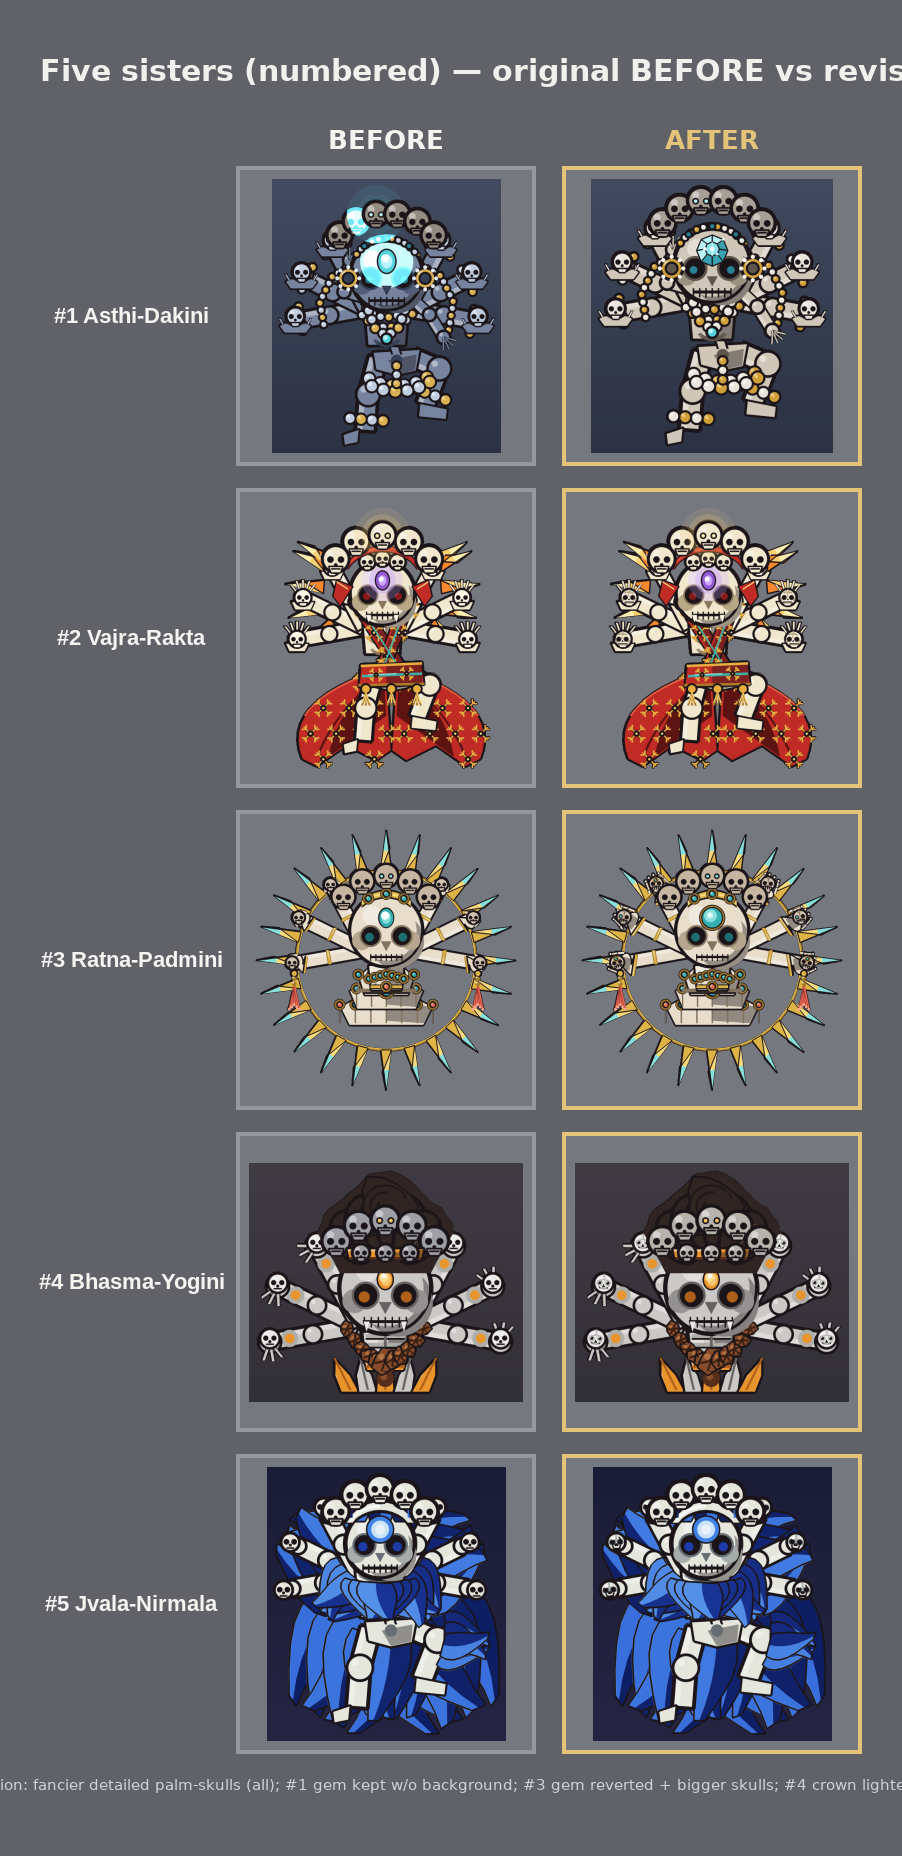
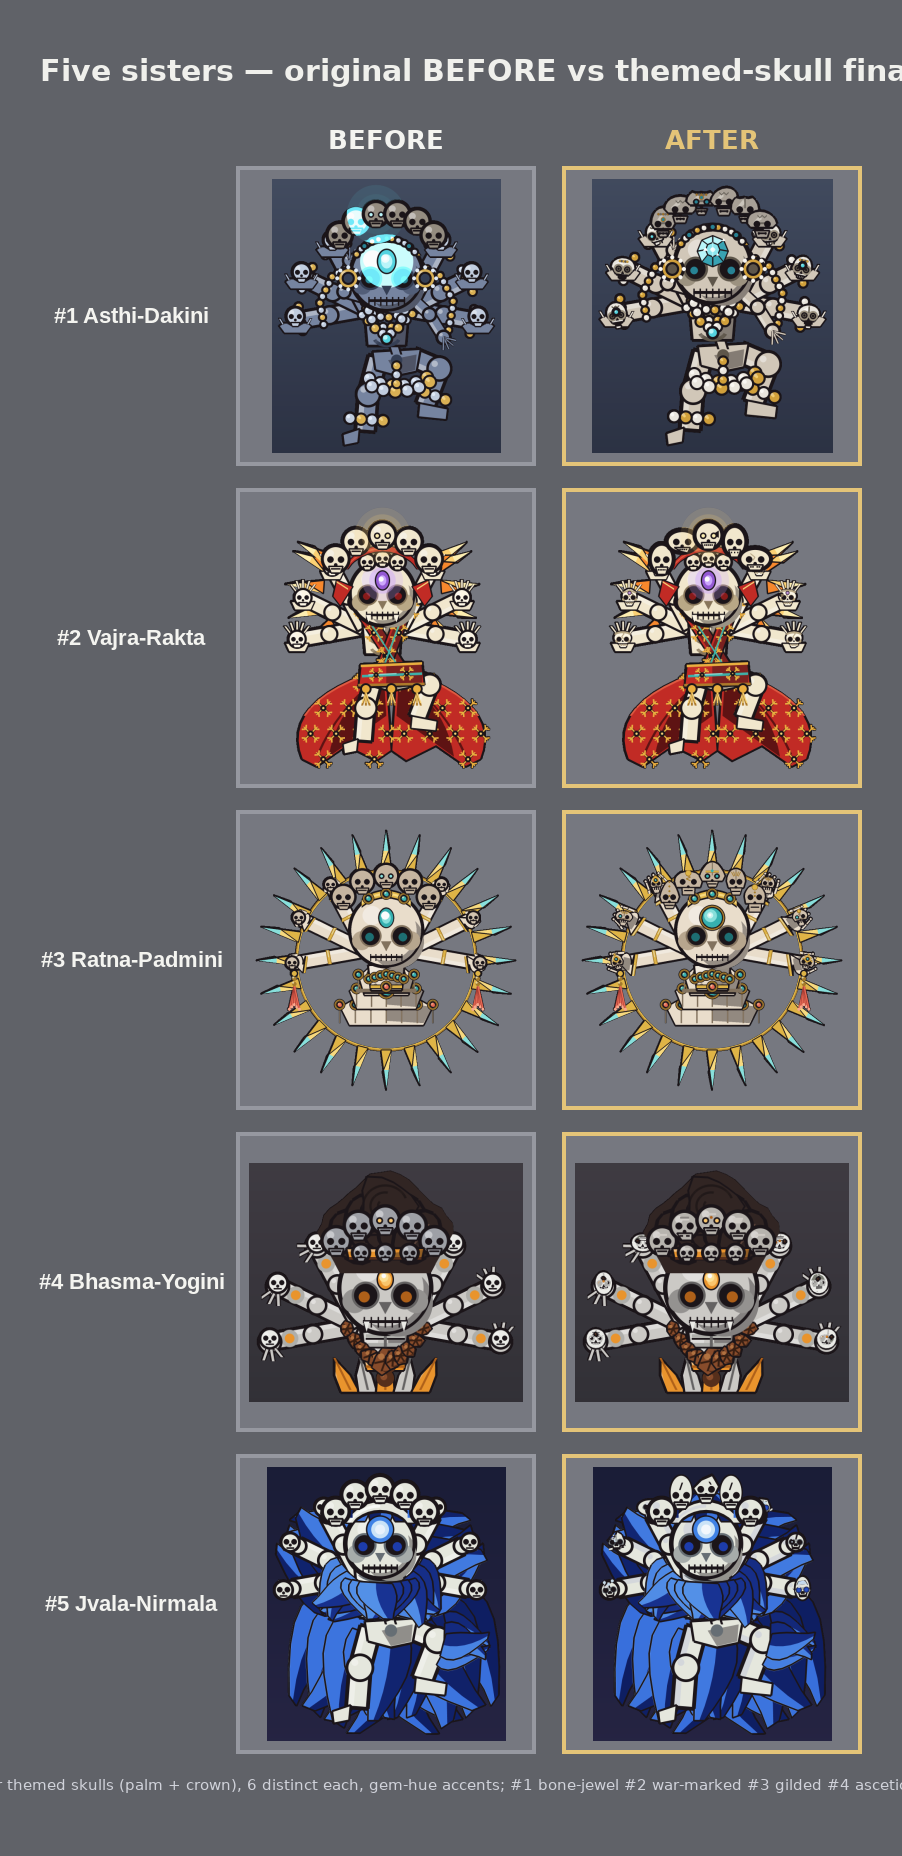
skybit: refresh before/after aggregate to themed-skull finals (asthi10/vajra7/ratna7/bhasma7/jvala8), 0 clip violations
Claude-Session: https://claude.ai/code/session_01JdHJ2TbdY51oSPSCYSsaHZ

diff --git a/docs/skybit_devil/batch2/gem_skull_redesign/build_before_after.py b/docs/skybit_devil/batch2/gem_skull_redesign/build_before_after.py
@@ -51,7 +51,7 @@ ROWS = [
             "mode": "gradient",
         },
         "after": {
-            "file": "docs/skybit_devil/batch2/mukha_citipati_court/asthi_dakini/round_8_hero.png",
+            "file": "docs/skybit_devil/batch2/mukha_citipati_court/asthi_dakini/round_10_hero.png",
             "mode": "gradient",
         },
     },
@@ -62,7 +62,7 @@ ROWS = [
             "mode": "alpha",
         },
         "after": {
-            "file": "docs/skybit_devil/batch2/mukha_citipati_court/vajra_rakta/round_5_hero.png",
+            "file": "docs/skybit_devil/batch2/mukha_citipati_court/vajra_rakta/round_7_hero.png",
             "mode": "alpha",
         },
     },
@@ -73,7 +73,7 @@ ROWS = [
             "mode": "alpha",
         },
         "after": {
-            "file": "docs/skybit_devil/batch2/mukha_citipati_court/ratna_padmini/round_4_hero.png",
+            "file": "docs/skybit_devil/batch2/mukha_citipati_court/ratna_padmini/round_7_hero.png",
             "mode": "alpha",
         },
     },
@@ -85,7 +85,7 @@ ROWS = [
             "skip_top": 120,  # excludes the printed name strip above the figure
         },
         "after": {
-            "file": "docs/skybit_devil/batch2/mukha_citipati_court_ii/bhasma_yogini/round_5_hero.png",
+            "file": "docs/skybit_devil/batch2/mukha_citipati_court_ii/bhasma_yogini/round_7_hero.png",
             "mode": "gradient",
             "skip_top": 120,
         },
@@ -98,7 +98,7 @@ ROWS = [
             "skip_top": 120,
         },
         "after": {
-            "file": "docs/skybit_devil/batch2/mukha_citipati_court_ii/jvala_nirmala/round_5_hero.png",
+            "file": "docs/skybit_devil/batch2/mukha_citipati_court_ii/jvala_nirmala/round_8_hero.png",
             "mode": "gradient",
             "skip_top": 120,
         },
@@ -216,7 +216,7 @@ def main():
     f_cap = pygame.font.SysFont("dejavusans", 15)
 
     title = f_title.render(
-        "Five sisters (numbered) — original BEFORE vs revised AFTER",
+        "Five sisters — original BEFORE vs themed-skull final AFTER",
         True,
         TITLE_COL,
     )
@@ -293,8 +293,8 @@ def main():
 
     # Bottom caption strip.
     cap = f_cap.render(
-        "revision: fancier detailed palm-skulls (all); #1 gem kept w/o background; "
-        "#3 gem reverted + bigger skulls; #4 crown lightened.",
+        "final: per-character themed skulls (palm + crown), 6 distinct each, gem-hue accents; "
+        "#1 bone-jewel #2 war-marked #3 gilded #4 ascetic #5 frost-cracked.",
         True,
         CAP_COL,
     )
